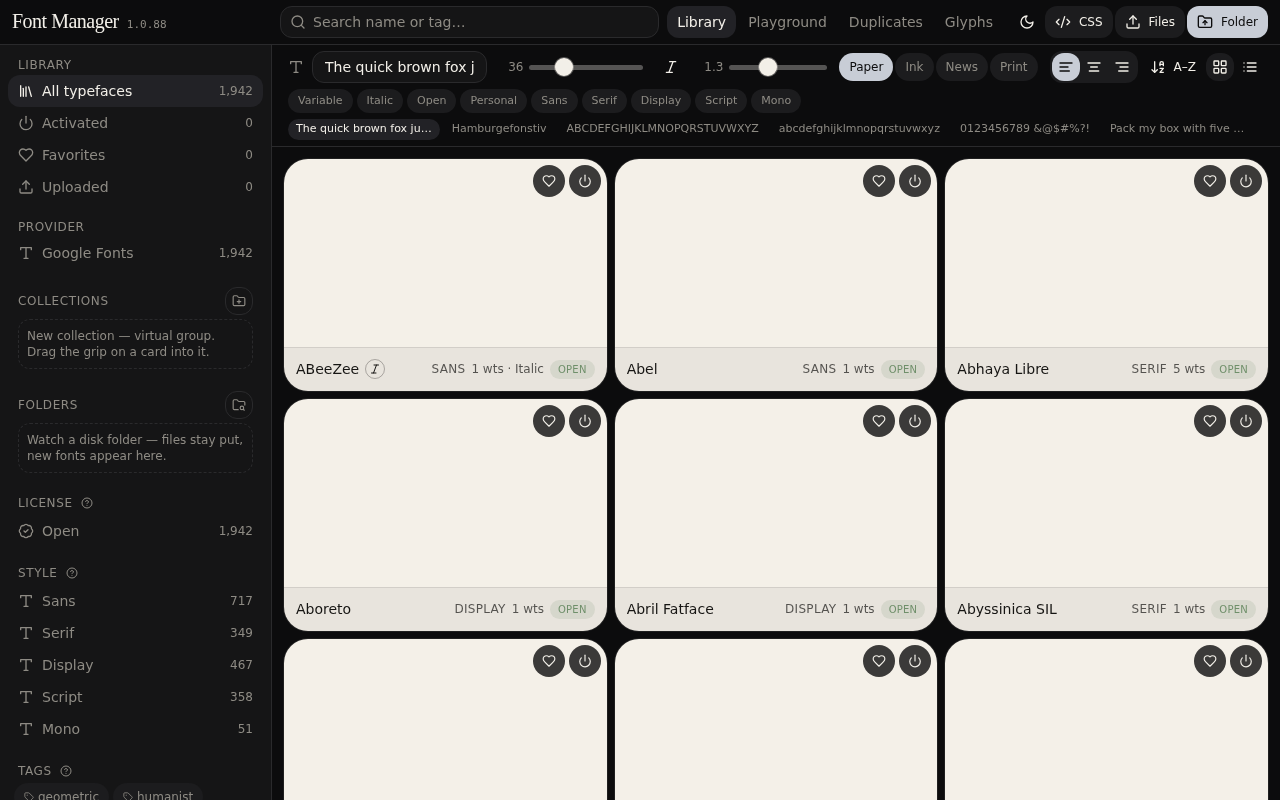
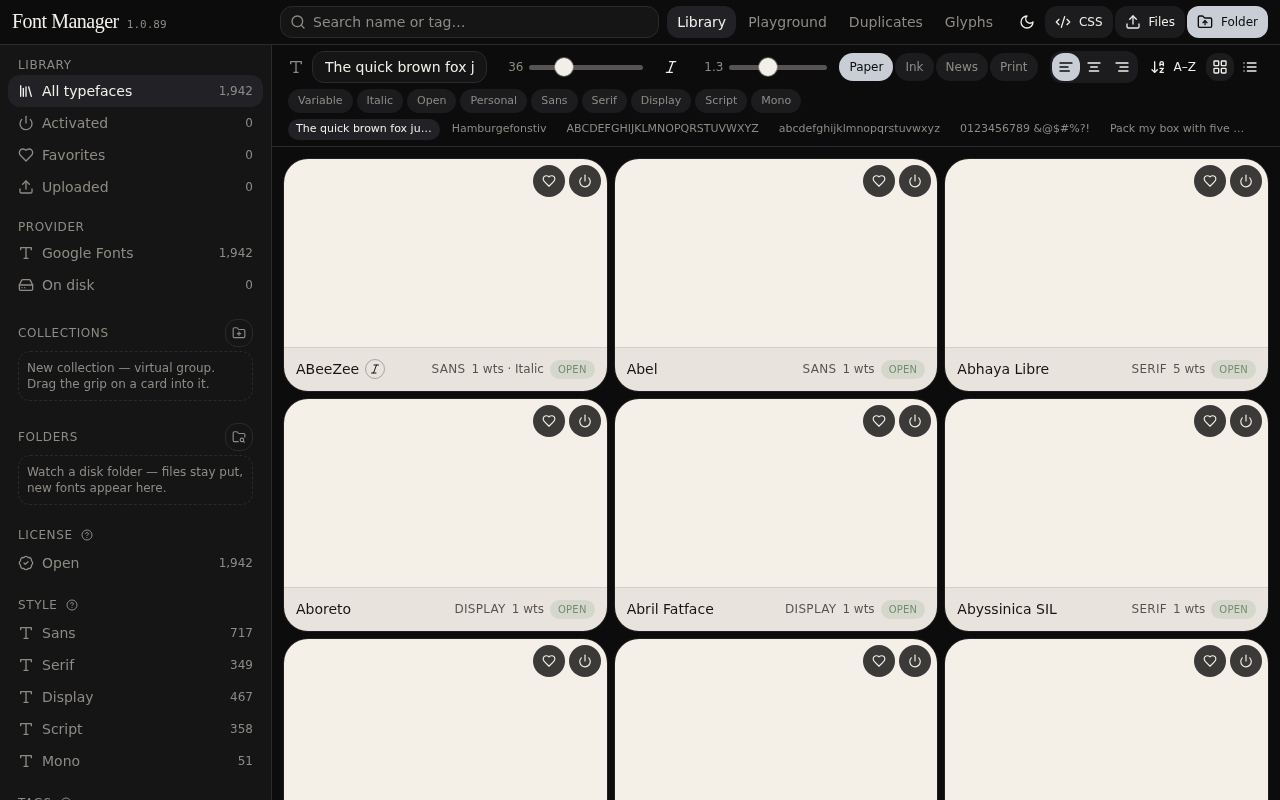
Font Manager 1.0.89 — restore session on exit, On disk provider
Launch unions persisted Activate with the Rust session file so a closed window does not drop families. Slider axes persist. Sidebar lists downloaded Google families. Activate still scans first; Deactivate still keeps files.

diff --git a/src/lib/fonts/store.ts b/src/lib/fonts/store.ts
@@ -33,6 +33,7 @@ interface PersistedSlice {
   localFonts: FontRecord[];
   preview: PreviewSettings;
   scope: LibraryScope;
+  previewAxes: Record<string, Record<string, number>>;
 }
 
 interface FontState extends PersistedSlice {
@@ -44,7 +45,8 @@ interface FontState extends PersistedSlice {
   selectedId: string | null;
   inspectorOpen: boolean;
   uploadBusy: boolean;
-  previewAxes: Record<string, Record<string, number>>;
+  diskFamilies: string[];
+  diskFamilySet: Set<string>;
   activatedSet: Set<string>;
   pendingActivate: string[];
   pendingSet: Set<string>;
@@ -67,6 +69,8 @@ interface FontState extends PersistedSlice {
   selectFont: (id: string | null) => void;
   setInspectorOpen: (open: boolean) => void;
   setPreviewAxis: (id: string, tag: string, value: number) => void;
+  setDiskFamilies: (names: string[]) => void;
+  addDiskFamilies: (names: string[]) => void;
   addCollection: (name: string, parentId?: string | null) => string;
   setCollectionWatch: (id: string, watchPath: string | undefined, autoActivate?: boolean) => void;
   setCollectionAutoActivate: (id: string, autoActivate: boolean) => void;
@@ -152,6 +156,20 @@ function withPending(pendingActivate: string[]) {
   return { pendingActivate, pendingSet: new Set(pendingActivate) };
 }
 
+function withDisk(names: string[]) {
+  const diskFamilies: string[] = [];
+  const diskFamilySet = new Set<string>();
+  for (const raw of names) {
+    const t = raw.trim();
+    if (!t) continue;
+    const key = t.toLowerCase();
+    if (diskFamilySet.has(key)) continue;
+    diskFamilySet.add(key);
+    diskFamilies.push(t);
+  }
+  return { diskFamilies, diskFamilySet };
+}
+
 function stripLegacySeedActivation(activated: string[] | undefined, localCount: number): string[] {
   const list = activated ?? [];
   if (localCount > 0) return list;
@@ -179,6 +197,7 @@ export const useFontStore = create<FontState>()(
       inspectorOpen: false,
       uploadBusy: false,
       previewAxes: {},
+      ...withDisk([]),
       setHydrated: (value) => set({ hydrated: value }),
       setGoogleFonts: (fonts) =>
         set((s) => {
@@ -348,6 +367,12 @@ export const useFontStore = create<FontState>()(
               [id]: { ...prev, [tag]: value },
             },
           };
+        }),
+      setDiskFamilies: (names) => set(withDisk(names)),
+      addDiskFamilies: (names) =>
+        set((s) => {
+          if (!names.length) return s;
+          return withDisk([...s.diskFamilies, ...names]);
         }),
       addCollection: (name, parentId = null) => {
         const id = uid("c");
@@ -723,6 +748,7 @@ export const useFontStore = create<FontState>()(
             customTags: p.customTags && typeof p.customTags === "object" ? p.customTags : {},
             localFonts: Array.isArray(p.localFonts) ? p.localFonts : [],
             preview: { ...DEFAULT_PREVIEW, ...(p.preview as PreviewSettings | undefined) },
+            previewAxes: p.previewAxes && typeof p.previewAxes === "object" ? p.previewAxes : {},
             scope: (typeof p.scope === "string" ? p.scope : "all") as LibraryScope,
           } satisfies PersistedSlice;
         }
@@ -769,6 +795,7 @@ export const useFontStore = create<FontState>()(
             align: p.preview?.align ?? "left",
             italic: Boolean(p.preview?.italic),
           },
+          previewAxes: p.previewAxes && typeof p.previewAxes === "object" ? p.previewAxes : {},
           scope: p.scope ?? current.scope ?? "all",
         };
       },
@@ -780,6 +807,7 @@ export const useFontStore = create<FontState>()(
         customTags: s.customTags,
         localFonts: s.localFonts,
         preview: s.preview,
+        previewAxes: s.previewAxes,
         scope: s.scope,
       }),
     },
@@ -971,6 +999,7 @@ export function filterLibrary(
   activated: string[],
   collections: Collection[],
   customTags: Record<string, string[]>,
+  diskFamilies: string[] = [],
 ): FontRecord[] {
   let list = fonts;
   if (scope === "activated") {
@@ -981,6 +1010,10 @@ export function filterLibrary(
     list = list.filter((f) => fav.has(f.id));
   } else if (scope === "uploaded") list = list.filter((f) => f.source === "local");
   else if (scope === "google") list = list.filter((f) => f.source === "google");
+  else if (scope === "disk") {
+    const onDisk = new Set(diskFamilies.map((n) => n.trim().toLowerCase()));
+    list = list.filter((f) => f.source === "google" && onDisk.has(f.family.toLowerCase()));
+  }
   else if (scope.startsWith("collection:")) {
     const ids = collectFolderFontIds(collections, scope.slice(11));
     list = list.filter((f) => ids.has(f.id));

diff --git a/src/lib/fonts/hydrate.ts b/src/lib/fonts/hydrate.ts
@@ -6,7 +6,7 @@ import { refineLicense } from "./license";
 import { findFont, useFontStore } from "./store";
 import { loadFont, noteDiskFamilies, primeGooglePreview } from "./loader";
 import { inferLocalStyle } from "./style-tags";
-import { restoreSessionFromDisk, rememberSessionFamilies } from "./os-activate";
+import { restoreSessionFromDisk, rememberSessionFamilies, listDiskFamilies, listSessionFamilies } from "./os-activate";
 import { inDesktopShell } from "@/lib/desktop/open-fonts";
 import { startWatchPolling } from "./watch-folder";
 import type { FontRecord } from "./types";
@@ -122,19 +122,38 @@ export function useHydrateFonts() {
       const wantIds = Array.from(new Set(useFontStore.getState().activated));
       const desktop = await inDesktopShell();
       if (desktop) {
-        const wantNames = wantIds
+        const [sessionNames, diskNames] = await Promise.all([listSessionFamilies(), listDiskFamilies()]);
+        useFontStore.getState().setDiskFamilies(diskNames);
+        noteDiskFamilies(diskNames);
+        const persistNames = wantIds
           .map((id) => findFont(id, localFonts, google)?.family)
           .filter((name): name is string => Boolean(name));
+        const wantNames = Array.from(new Set([...persistNames, ...sessionNames]));
         void restoreSessionFromDisk(wantNames).then((result) => {
           if (cancelled) return;
-          noteDiskFamilies(result.onDisk);
-          const allow = new Set(result.ready.map((n) => n.trim().toLowerCase()));
+          noteDiskFamilies(result.onDisk.length ? result.onDisk : diskNames);
+          useFontStore.getState().setDiskFamilies(result.onDisk.length ? result.onDisk : diskNames);
+          const allow = new Set<string>();
+          for (const n of result.ready) allow.add(n.trim().toLowerCase());
           for (const n of result.onDisk) allow.add(n.trim().toLowerCase());
+          for (const n of sessionNames) allow.add(n.trim().toLowerCase());
           const live: string[] = [];
-          for (const id of wantIds) {
+          const seen = new Set<string>();
+          const consider = (id: string) => {
+            if (seen.has(id)) return;
             const font = findFont(id, localFonts, google);
-            if (!font) continue;
-            if (font.source === "local" || allow.has(font.family.toLowerCase())) live.push(id);
+            if (!font) return;
+            if (font.source === "local" || allow.has(font.family.toLowerCase())) {
+              seen.add(id);
+              live.push(id);
+            }
+          };
+          for (const id of wantIds) consider(id);
+          const byFamily = new Map<string, string>();
+          for (const font of [...localFonts, ...google]) byFamily.set(font.family.toLowerCase(), font.id);
+          for (const name of sessionNames) {
+            const id = byFamily.get(name.trim().toLowerCase());
+            if (id && allow.has(name.trim().toLowerCase())) consider(id);
           }
           useFontStore.getState().restoreActivation(live, []);
           void rememberSessionFamilies(

diff --git a/src/components/font-studio/sidebar.tsx b/src/components/font-studio/sidebar.tsx
@@ -10,6 +10,7 @@ import {
   Type,
   Upload,
   User,
+  HardDrive,
 } from "lucide-react";
 import { useMemo, type ReactNode } from "react";
 import { LibraryGroups } from "./folder-tree";
@@ -103,6 +104,7 @@ export function Sidebar({
   const customTags = useFontStore((s) => s.customTags);
   const localFonts = useFontStore((s) => s.localFonts);
   const googleFonts = useFontStore((s) => s.googleFonts);
+  const diskCount = useFontStore((s) => s.diskFamilies.length);
   const counts = useMemo(() => {
     const list = allFonts(localFonts, googleFonts);
     const license = { free: 0, freeware: 0, personal: 0, commercial: 0, unknown: 0 };
@@ -181,6 +183,14 @@ export function Sidebar({
               count={googleFonts.length}
               mainProps={{ "aria-label": "Google Fonts" }}
               menu={<GoogleActivateMenuItem />}
+            />
+            <SidebarRow
+              active={scope === "disk"}
+              onClick={() => go("disk")}
+              icon={<HardDrive className="size-4 shrink-0" />}
+              label="On disk"
+              count={diskCount}
+              mainProps={{ "aria-label": "On disk" }}
             />
           </section>
 

diff --git a/src/components/font-studio/library-grid.tsx b/src/components/font-studio/library-grid.tsx
@@ -67,6 +67,7 @@ export function LibraryGrid() {
   const collections = useFontStore((s) =>
     s.scope.startsWith("collection:") ? s.collections : EMPTY_COLS,
   );
+  const diskFamilies = useFontStore((s) => (s.scope === "disk" ? s.diskFamilies : EMPTY_IDS));
   const { boxRef, box } = useScroller();
   const [uploadsOpen, setUploadsOpen] = useState(false);
   const list = preview.view === "list";
@@ -82,10 +83,11 @@ export function LibraryGrid() {
           activated,
           collections,
           customTags,
+          diskFamilies,
         ),
         preview.sort ?? "name-asc",
       ),
-    [localFonts, googleFonts, scope, query, favorites, activated, collections, customTags, preview.sort],
+    [localFonts, googleFonts, scope, query, favorites, activated, collections, customTags, diskFamilies, preview.sort],
   );
 
   const inner = Math.max(280, box.width - 24);

diff --git a/src/lib/fonts/os-activate.ts b/src/lib/fonts/os-activate.ts
@@ -80,6 +80,7 @@ function applyReadyFamilies(names: string[]) {
       if (id) ids.push(id);
     }
     if (ids.length) markLiveActivated(ids);
+    useFontStore.getState().addDiskFamilies(names);
   });
 }
 
@@ -183,6 +184,15 @@ export async function rememberSessionFamilies(families: string[]): Promise<void>
     await tauriInvoke("set_session_families", { families });
   } catch {
     /* older installer */
+  }
+}
+
+export async function listSessionFamilies(): Promise<string[]> {
+  if (!(await inDesktopShell())) return [];
+  try {
+    return (await tauriInvoke<string[]>("session_families")) ?? [];
+  } catch {
+    return [];
   }
 }
 

diff --git a/src/lib/fonts/types.ts b/src/lib/fonts/types.ts
@@ -11,6 +11,7 @@ export type LibraryScope =
   | "favorites"
   | "uploaded"
   | "google"
+  | "disk"
   | `collection:${string}`
   | `category:${FontCategory}`
   | `tag:${string}`

diff --git a/src/version.ts b/src/version.ts
@@ -1,3 +1,3 @@
 export const APP_NAME = "Font Manager";
-export const APP_VERSION = "1.0.88";
+export const APP_VERSION = "1.0.89";
 export const APP_TITLE = APP_NAME;

diff --git a/src-tauri/src/main.rs b/src-tauri/src/main.rs
@@ -89,6 +89,7 @@ fn main() {
             activate::activate_families_on_disk,
             activate::plan_google_activation,
             activate::set_session_families,
+            activate::session_families,
             activate::read_family_font,
             activate::scan_disk_families,
             parse::parse_family_cmap,

diff --git a/src-tauri/src/activate.rs b/src-tauri/src/activate.rs
@@ -319,6 +319,11 @@ pub fn set_session_families(app: AppHandle, families: Vec<String>) -> Result<(),
     Ok(())
 }
 
+#[tauri::command]
+pub fn session_families(app: AppHandle) -> Result<Vec<String>, String> {
+    Ok(load_session_families(&app))
+}
+
 pub fn session_begin(app: &AppHandle) {
     #[cfg(windows)]
     {

diff --git a/README.md b/README.md
@@ -1,8 +1,10 @@
-# Font Manager **1.0.88**
+# Font Manager **1.0.89**
 
 **TL;DR.** FontBase-style desktop typeface library. Browse ~1,968 Google Font families, upload TTF/OTF/WOFF/WOFF2/TTC, **Activate** so Word, Adobe, and Figma can use them while this window is open. Files live in `Documents / Font Manager`. This website is the same UI — a dress rehearsal before `deploy.bat`.
 
-Version **1.0.88** sits next to the logo, not in the window title.
+Version **1.0.89** sits next to the logo, not in the window title.
+
+**1.0.89** — Exit restores the last session even if the UI persist lagged. Slider positions are saved. Provider list has **On disk** (downloaded Google families). Activate still scans first; Deactivate still keeps files.
 
 **1.0.88** — Library card weight slider and inspector axes share one store. Drag either; both update. Google CSS preview is never `&text=`-subsetted. Activated files on disk stay the install cache (Word/Adobe); the grid still paints through CSS so this website and the desktop window match.
 
@@ -113,7 +115,7 @@ You never opened an IDE first. You talked to **Grok Build**, watched the live pr
 
 ## Stack (what actually runs)
 
-- **UI:** Vite, React, Zustand persist (favorites, activated, collections, tags, uploads, preview, scope — not the download queue).
+- **UI:** Vite, React, Zustand persist (favorites, activated, collections, tags, uploads, preview, slider axes, scope — not the download queue).
 - **Desktop:** Tauri 2, Rust `reqwest` downloads, `AddFontResourceW` + `SendNotifyMessageW(WM_FONTCHANGE)`.
 - **Parse:** Fast table reader for TTF/OTF/WOFF1/TTC (name, OS/2, fvar, GSUB tags). `opentype.js` is the fallback. Desktop also has Rust `ttf-parser` for cmap / axes on files in Documents. WOFF2 previews in the browser; Windows install still wants TTF/OTF.
 - **Preview:** Chromium `FontFace` + Google CSS2 (same on this website and in the desktop WebView). Word/Adobe use DirectWrite/GDI after Activate.
@@ -215,11 +217,11 @@ Opening the inspector reads GSUB/GPOS from the TTF. Switches set `font-variant-l
 | Symptom | What to do |
 | --- | --- |
 | First Activate is slow | That family is downloading. Next launch registers the file on disk — no fetch. |
-| `tauri.conf.json` parse error | Version must be `"1.0.88",` — **one** comma. |
+| `tauri.conf.json` parse error | Version must be `"1.0.89",` — **one** comma. |
 | Word doesn’t list the face yet | Wait a second; open the font menu again. |
 | OT toggles do nothing | Use the demo line, not the pangram. Confirm the file actually has that tag. |
 | Display face clipped | Library cards shrink-to-fit (min 13px). Inspector alphabet wraps with `overflow-wrap: anywhere`. |
-| Can’t install — **Unable to uninstall** / **Error launching installer** | Double-click **`fix-install.bat`**. Rebuild with **1.0.88** (`deploy.bat`). Right-click setup → Properties → **Unblock** if Windows marked the file. |
+| Can’t install — **Unable to uninstall** / **Error launching installer** | Double-click **`fix-install.bat`**. Rebuild with **1.0.89** (`deploy.bat`). Right-click setup → Properties → **Unblock** if Windows marked the file. |
 | Build window closed after `index.html` | That was only the UI pack. Re-run `deploy.bat` and wait for Explorer. |
 | MSI missing, only setup.exe | Install [WiX Toolset v3](https://wixtoolset.org), then `deploy.bat` again. NSIS is enough to install. |
 
